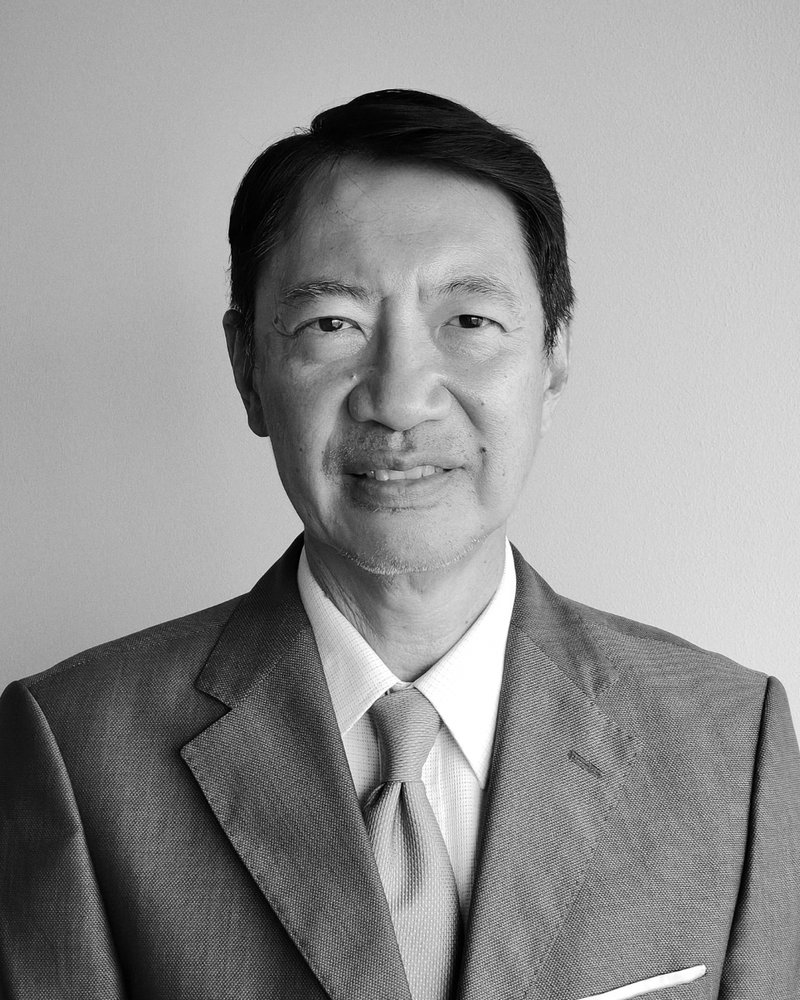
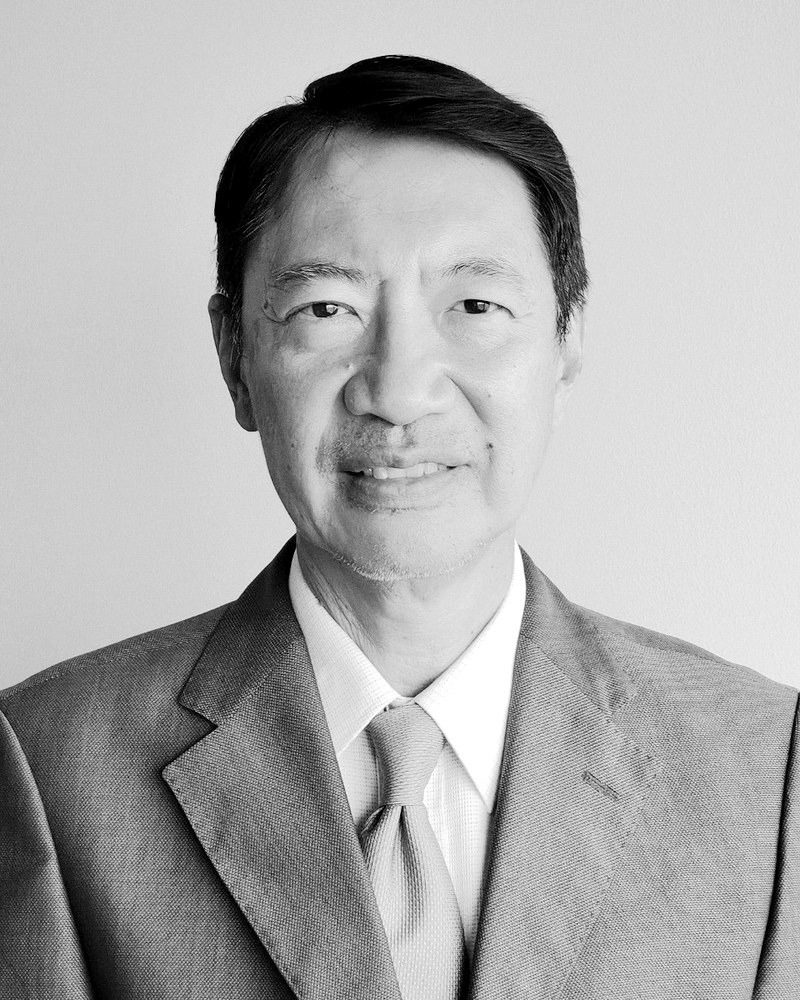
Client feedback: drop full stops on first slide, larger credentials, matched lawyer photo tones
- What we do slide 1: remove full stops after all four lines
- Commissioner for Oaths / Notary Public: 0.55em to 0.68em of the main lines (web and mobile)
- Peter Wong: new source photo, cropped to 4:5 (timestamp removed), tone matched to Lim Soo Peng's
- Lim Soo Peng: slight contrast ease so both portraits share a tonal range

Claude-Session: https://claude.ai/code/session_0123tVu3zRr4daoyttAN7mmn

diff --git a/library/components.css b/library/components.css
@@ -296,11 +296,10 @@ html:not(.js) .nav__links{display:none}
 /* Each line stays on one line. The longest (the firm name) is about 9.8em wide, so every line shrinks to fit the gutters on phones and is capped at the line's size */
 .services__line-item{display:block;white-space:nowrap;font-size:min(var(--fs-statement),calc((100vw - 2 * var(--gutter)) / 10))}
 /* Commissioning and notarial services: secondary to the firm being advocates and solicitors, so a smaller size with a little space above */
-.services__line-item--sub{font-size:calc(min(var(--fs-statement),calc((100vw - 2 * var(--gutter)) / 10)) * .55);line-height:1.35}
+.services__line-item--sub{font-size:calc(min(var(--fs-statement),calc((100vw - 2 * var(--gutter)) / 10)) * .68);line-height:1.35}
 .services__line-item:not(.services__line-item--sub) + .services__line-item--sub{margin-top:.6em}
 /* Scroll cue: the hero's double chevron (same loop, .hero__chev), at the bottom of the stage, over the one-liner and every service. Only while pinned. */
 .services__scroll{display:none}
-.services__stop{color:var(--olive-eyebrow)}
 .services__list{display:grid;justify-items:start;gap:1.25rem;margin:0;padding:0;list-style:none}
 /* Olive circle with the service: number above, name below, both on the left of the page */
 /* Left aligned inside the circle. The name is one line and may run out past the circle edge. */

diff --git a/index.html b/index.html
@@ -155,7 +155,7 @@
       </div>
     </div>
     <div class="container services__copy">
-      <p class="services__line" data-line><span class="services__line-item services__firm">Lim Soo Peng &amp; Co LLC<span class="services__stop">.</span></span><span class="services__line-item">Advocates and Solicitors<span class="services__stop">.</span></span><span class="services__line-item services__line-item--sub">Commissioner for Oaths<span class="services__stop">.</span></span><span class="services__line-item services__line-item--sub">Notary Public<span class="services__stop">.</span></span></p>
+      <p class="services__line" data-line><span class="services__line-item services__firm">Lim Soo Peng &amp; Co LLC</span><span class="services__line-item">Advocates and Solicitors</span><span class="services__line-item services__line-item--sub">Commissioner for Oaths</span><span class="services__line-item services__line-item--sub">Notary Public</span></p>
       <span class="services__scroll" data-scroll-cue aria-hidden="true"><svg viewBox="0 0 24 24"><path class="hero__chev hero__chev--top" d="M6 6.5 12 12l6-5.5"/><path class="hero__chev hero__chev--bottom" d="M6 12.5 12 18l6-5.5"/></svg></span>
       <ol class="services__list">
         <li class="service" data-service="1"><span class="service__num">01</span><h3 class="service__name">Litigation</h3></li>
